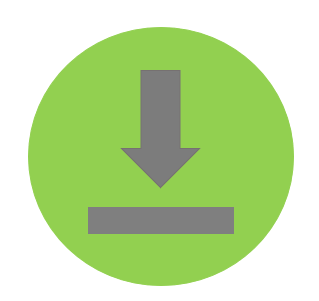
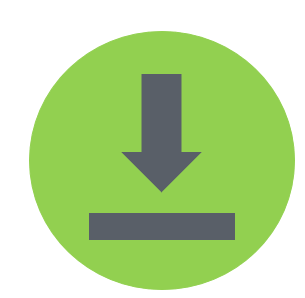
resized bottom container

diff --git a/tier-maker/src/App.js b/tier-maker/src/App.js
@@ -29,15 +29,25 @@ const Centered = styled.div`
   background-color: black;
   grid-template-columns: 1fr;
   grid-template-rows: 1fr;
-  min-height; 60vh;
+  min-height: 60vh;
+`;
+
+const CenteredBottom = styled.div`
+  margin: auto;
+  margin-top: 10px;
+  width: 70%;
+  display: grid;
+  text-align: center;
+  align-items: stretch;
+  max-width: 70%;
+  background-color: white;
+  grid-template-columns: 1fr;
+  grid-template-rows: 1fr;
+  min-height: 30vh;
 `;
 
 const BigContainer = styled.div`
-  //display: table-row;
   display: grid;
-  // grid-template-columns: [tierNameStart] 1fr [tierNameEnd tierBoxStart] 4fr [tierBoxEnd];
-  // grid-template-rows: 20%;
-  //grid-gap: 2px 2px;
   grid-auto-flow: row;
   border: 2px solid black;
   width: 100%;
@@ -234,16 +244,17 @@ class App extends Component {
               })}
             </BigContainer>
           </Centered>
-
-          <InputRow
-            inputField={this.state.iconInput}
-            row={this.state.rows["null-row"]}
-            key="null-row"
-            handlerFromParent={this.inputHandler}
-            totalTasks={this.state.totalTasks}
-            tasks={this.state.tasks}
-            clearAllHandler={this.clearAllHandler}
-          />
+          <CenteredBottom>
+            <InputRow
+              inputField={this.state.iconInput}
+              row={this.state.rows["null-row"]}
+              key="null-row"
+              handlerFromParent={this.inputHandler}
+              totalTasks={this.state.totalTasks}
+              tasks={this.state.tasks}
+              clearAllHandler={this.clearAllHandler}
+            />
+          </CenteredBottom>
         </DragDropContext>
         <Space />
       </div>

diff --git a/tier-maker/src/components/InputRow.js b/tier-maker/src/components/InputRow.js
@@ -3,44 +3,40 @@ import styled from "styled-components";
 import NewIcon from "./NewIcon";
 import { Droppable } from "react-beautiful-dnd";
 import Clear from "./Clear";
-const InputBox = styled.div`
-  //border: 2px solid black;
-  width: calc(20%);
-  height: calc(100% - 4px);
-  float: left;
-  //background-color: green;
-  margin-right: 20px;
+
+const InputContainer = styled.div`
+  display: grid;
+  width: calc(100%);
+  grid-template-columns: 2fr 6fr 1fr;
+  grid-template-rows: 100%;
+  border: 2px solid black;
 `;
 
-const InputDisplay = styled.div`
-  float: left;
+const InputBox = styled.div`
+  //border: 2px solid black;
   display: grid;
-  grid-template-columns: 1fr 1fr 1fr 1fr 1fr;
-  grid-template-rows: 1fr 1fr 1fr;
-  grid-gap 2px 2px;
-  grid-auto-flow: row;
-  border: 4px solid #595f68;
-  width: calc(60%);
-  height: calc(100% - 4px);
-  margin-right: 40px;
+  grid-area: 1 / 1 / 2 / 2;
+  justify-self: center;
   background-color: #595f68;
 `;
 
-const InputContainer = styled.div`
-  width: calc(80%);
-  //background-color: #ffcc33;
-  margin: auto;
-  margin-top: 10px;
-  height: 240px;
+const InputDisplay = styled.div`
+  display: grid;
+  grid-template-columns: 1fr 1fr 1fr 1fr 1fr;
+  grid-template-rows: 1fr 1fr 1fr;
+  grid-gap: 2px 2px;
+  grid-auto-flow: row;
+  //border: 2px solid black;
+  grid-area: 1 / 2 / 2 / 3;
+  justify-self: stretch;
+  background-color: #595f68;
 `;
 
 const DeleteArea = styled.div`
-  float: left;
-  text-align: center;
+  // text-align: center;
+  background-color: #595f68;
   //border: 2px solid black;
-  width: calc(12%);
-  height: 100%;
-  align-self: stretch;
+  grid-area: 1 / 3 / 2 / 4;
 `;
 
 class InputRow extends Component {

diff --git a/tier-maker/src/components/Clear.js b/tier-maker/src/components/Clear.js
@@ -1,12 +1,19 @@
 import React, { Component } from "react";
 import img from "./recycle.png";
-//import img from "./dIcon.PNG";
+import dimg from "./dIcon.PNG";
 import styled from "styled-components";
 
+const BigContainer = styled.div`
+  display: grid;
+  background-color: #595f68;
+  grid-template-columns: 100%;
+  //grid-template-rows: 1fr 1fr;
+  grid-auto-flow: row;
+`;
+
 const Container = styled.div`
-  margin-top: 10px;
-  height: 50%;
-  width: 100%;
+  //border: 2px solid black;
+  place-self: center;
 `;
 
 class Clear extends Component {
@@ -16,14 +23,24 @@ class Clear extends Component {
   };
   render() {
     return (
-      <Container>
-        <img
-          src={img}
-          width={"75%"}
-          height={"75%"}
-          onClick={this.props.onClick}
-        />
-      </Container>
+      <BigContainer>
+        <Container>
+          <img
+            src={img}
+            width={"100%"}
+            height={"100%"}
+            onClick={this.props.onClick}
+          />
+        </Container>
+        <Container>
+          <img
+            src={dimg}
+            width={"100%"}
+            height={"100%"}
+            onClick={this.props.onClick}
+          />
+        </Container>
+      </BigContainer>
     );
   }
 }

diff --git a/tier-maker/src/components/Row.js b/tier-maker/src/components/Row.js
@@ -10,18 +10,12 @@ import { Droppable } from "react-beautiful-dnd";
 // `;
 const Container = styled.div`
   margin: 2px;
-
   background-color: #595f68;
   display: grid;
   grid-template-columns: [tierNameStart] 1fr [tierNameEnd tierBoxStart] 4fr [tierBoxEnd];
   grid-template-row: 100%;
-  //grid-gap: 2px 2px;
-  //flex:1,
-  //flex-direction: row;
-  //flex-wrap: wrap;
   justify-content: center;
   align-items: center;
-  //height: calc(20% - 4px);
   width: 99%;
   height: 100%;
 `;
@@ -34,7 +28,6 @@ const TierName = styled.div`
   box-sizing: border-box;
   text-align: center;
   background-color: ${props => props.boxColor || "lightblue"};
-  //align-self: stretch;
   grid-area: 1 / 1 / 2 / 2;
   margin: 2px;
   height: calc(50%);
